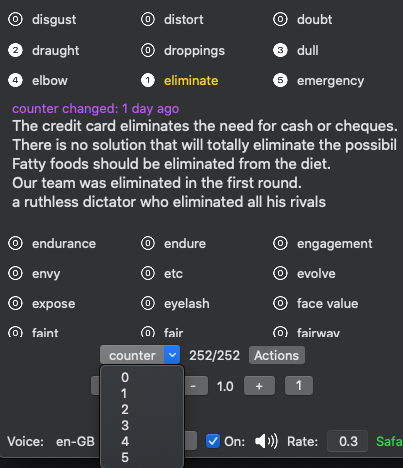
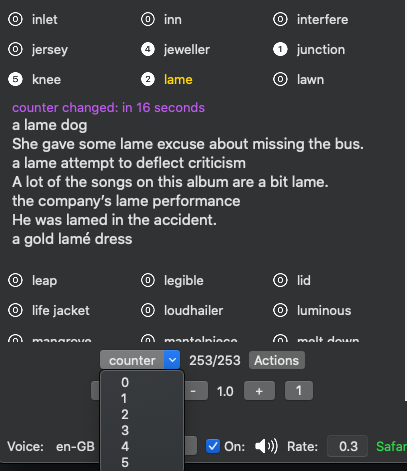
Bookmarks view new features #65: all/0/1/2/3/4/5 bookmark filter.

diff --git a/ReaderTranslator/Views/ReaderView/Modes/Bookmarks/BookmarksView_Controls/BookmarksView_Controls.swift b/ReaderTranslator/Views/ReaderView/Modes/Bookmarks/BookmarksView_Controls/BookmarksView_Controls.swift
@@ -15,18 +15,23 @@ struct BookmarksView_Controls: View {
         String(format: "%.1f", arguments: [self.store.longmanAudioRate])
     }
 
+    private var bookmarks: Bookmarks {
+        self.store.bookmarks.filter(counter: self.store.bookmarksCounterFilter)
+    }
+
     var body: some View {
         VStack {
             HStack {
-                MenuButton("counter") {
-                    Text("0")
-                    Text("1")
-                    Text("2")
-                    Text("3")
-                    Text("4")
-                    Text("5")
+                MenuButton("counter \(self.store.bookmarksCounterFilter)") {
+                    ForEach(0...5, id: \.self) { counter in
+                        Button(
+                            action: {
+                                self.store.bookmarksCounterFilter = counter
+                            },
+                           label: { Text("\(counter)") })
+                    }
                 }.fixedSize()
-                Text("\(store.bookmarks.filter(counter: nil).count)/\(store.bookmarks.count)")
+                Text("\(bookmarks.count)/\(store.bookmarks.count)")
                 BookmarksView_Controls_ActionMenu()
             }
             audioRateButtonsView

diff --git a/ReaderTranslator/Stores/Store.swift b/ReaderTranslator/Stores/Store.swift
@@ -48,10 +48,10 @@ class Store: ObservableObject {
 
     @Published(key: "zoom") var zoom: CGFloat = 1
 
-    @Published(key: "bookmarks") var bookmarks: Bookmarks = []
-
     @Published(key: "playbackRate") var playbackRate: Float = 1.0
 
+    @Published(key: "bookmarks") var bookmarks: Bookmarks = []
+    @Published var bookmarksCounterFilter = 0
     @Published var longmanSentences: LongmanSentences = []
     @Published var longmanSelectedBookmark = "" {
         willSet {

diff --git a/ReaderTranslator/Views/ReaderView/Modes/Bookmarks/BookmarksView_List/BookmarksView_List.swift b/ReaderTranslator/Views/ReaderView/Modes/Bookmarks/BookmarksView_List/BookmarksView_List.swift
@@ -28,7 +28,10 @@ struct BookmarksView_List: View {
              bookmarks = bookmarks.filter { $0.text.contains(filter) }
         }
 
-        return bookmarks.sorted.chunked(into: columnts)
+        return bookmarks
+            .sorted
+            .filter(counter: self.store.bookmarksCounterFilter)
+            .chunked(into: columnts)
     }
 
     var body: some View {
